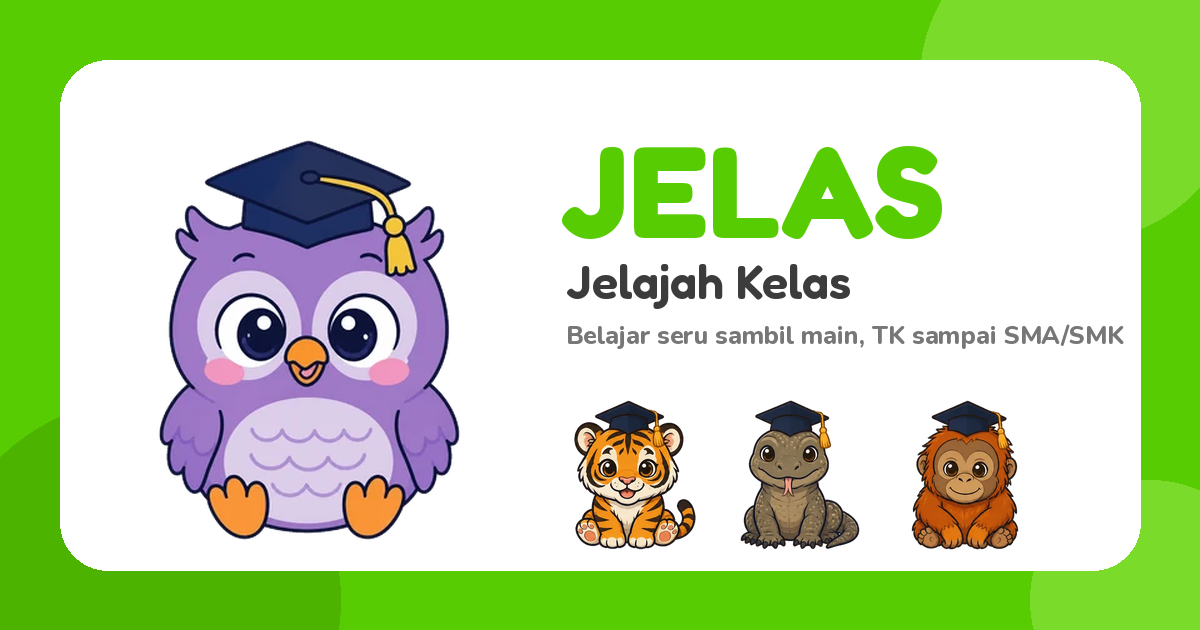
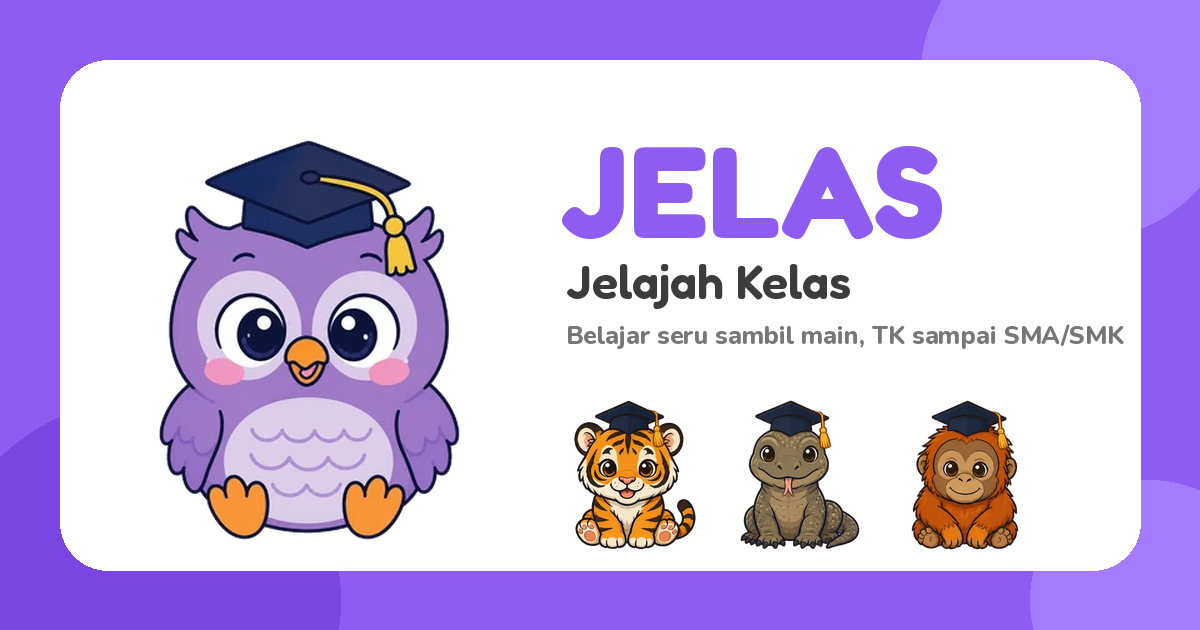
Pratinjau tautan bernuansa ungu Uli
Claude-Session: https://claude.ai/code/session_01CYnEYfHgLVhLvxdkxWB87V

Changed region(s): [[0.0, 0.0, 1.0, 1.0], [0.4625, 0.2111, 0.8017, 0.3921]]

diff --git a/index.html b/index.html
@@ -10,12 +10,12 @@
 <meta property="og:title" content="JELAS · Jelajah Kelas">
 <meta property="og:description" content="Belajar seru sambil main, dari TK sampai SMA/SMK. Gratis untuk murid dan guru.">
 <meta property="og:url" content="https://jelajahkelas.github.io/">
-<meta property="og:image" content="https://jelajahkelas.github.io/icons/og.png?v=1">
+<meta property="og:image" content="https://jelajahkelas.github.io/icons/og.png?v=2">
 <meta property="og:image:width" content="1200">
 <meta property="og:image:height" content="630">
 <meta property="og:image:alt" content="Uli si burung hantu, maskot JELAS">
 <meta name="twitter:card" content="summary_large_image">
-<meta name="twitter:image" content="https://jelajahkelas.github.io/icons/og.png?v=1">
+<meta name="twitter:image" content="https://jelajahkelas.github.io/icons/og.png?v=2">
 <link rel="manifest" href="manifest.webmanifest">
 <link rel="icon" type="image/png" href="icons/icon-192.png">
 <link rel="apple-touch-icon" href="icons/icon-192.png">
@@ -3659,7 +3659,7 @@ html[data-theme=malam] .plstick{background:#0a0f1e}
 <div class="syncpill" id="syncPill" hidden></div>
 <div class="toast" id="toast" hidden></div>
 
-<script src="av.js?v=186"></script>
+<script src="av.js?v=187"></script>
 <script>
 /* ---------- visual assets ---------- */
 const INK='#1B1E3D';
@@ -10637,7 +10637,7 @@ function folBind(root,list,after){root.querySelectorAll('[data-follow]').forEach
   try{await folDo(f,on);if(on){try{sfx.ok()}catch(_){}toast('team',`Kamu mengikuti ${f.name}.`)}b.outerHTML=folBtn(f,b.classList.contains('sm'));folBind(root,list,after);after&&after()}catch(err){b.disabled=false;toast('lock',fbErr(err))}})}
 const shareIcon='<svg viewBox="0 0 24 24" width="24" height="24" aria-hidden="true"><path d="M12 3 V15 M7 8 L12 3 L17 8 M5 13 V19 C5 20 6 21 7 21 H17 C18 21 19 20 19 19 V13" fill="none" stroke="currentColor" stroke-width="2.4" stroke-linecap="round" stroke-linejoin="round"/></svg>';
 const qrIcon='<svg viewBox="0 0 24 24" width="26" height="26" aria-hidden="true" fill="none" stroke="currentColor" stroke-width="2.4" stroke-linejoin="round"><rect x="3" y="3" width="7" height="7" rx="2"/><rect x="14" y="3" width="7" height="7" rx="2"/><rect x="3" y="14" width="7" height="7" rx="2"/><path d="M14 14h3v3h-3zM18 18h3v3h-3zM18 14h3M14 18v3" stroke-linecap="round"/></svg>';
-let QRP=null;function loadQR(){return QRP||(QRP=new Promise((ok,no)=>{if(window.QRCodeLib)return ok();const sc=document.createElement('script');sc.src='lib/qr.js?v=186';sc.onload=()=>ok();sc.onerror=()=>{QRP=null;no(new Error('qr'))};document.head.appendChild(sc)}))}
+let QRP=null;function loadQR(){return QRP||(QRP=new Promise((ok,no)=>{if(window.QRCodeLib)return ok();const sc=document.createElement('script');sc.src='lib/qr.js?v=187';sc.onload=()=>ok();sc.onerror=()=>{QRP=null;no(new Error('qr'))};document.head.appendChild(sc)}))}
 function qrMatrix(text){const Q=window.QRCodeLib,q=new Q(-1,Q.ECL.M);q.addData(text);q.make();const n=q.getModuleCount(),m=[];for(let r=0;r<n;r++){m.push([]);for(let c=0;c<n;c++)m[r].push(q.isDark(r,c))}return m}
 function qrSvgOf(m){const n=m.length;let d='';for(let r=0;r<n;r++)for(let c=0;c<n;c++)if(m[r][c])d+=`M${c} ${r}h1.02v1.02h-1.02z`;
   return `<svg viewBox="-2 -2 ${n+4} ${n+4}" class="pcqr" shape-rendering="crispEdges" aria-label="Kode QR profil"><rect x="-2" y="-2" width="${n+4}" height="${n+4}" fill="#fff"/><path d="${d}" fill="#1C1E3D"/></svg>`}

diff --git a/sw.js b/sw.js
@@ -1,5 +1,5 @@
 // Selalu ambil versi terbaru dari internet; pakai salinan tersimpan hanya saat offline.
-const CACHE = 'jelajah-kelas-v186';
+const CACHE = 'jelajah-kelas-v187';
 self.addEventListener('install', e => self.skipWaiting());
 // Hapus salinan versi lama supaya penyimpanan di HP tidak menumpuk setiap kali aplikasi diperbarui.
 self.addEventListener('activate', e => e.waitUntil(caches.keys().then(ks => Promise.all(ks.filter(k => k !== CACHE).map(k => caches.delete(k)))).then(() => self.clients.claim())));
